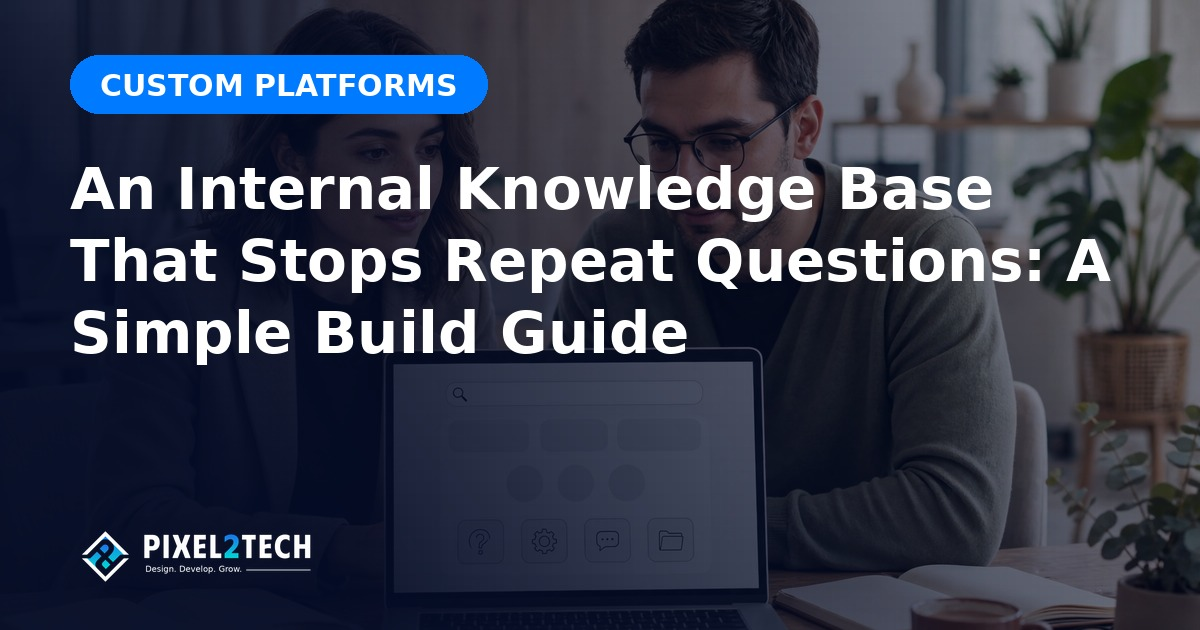
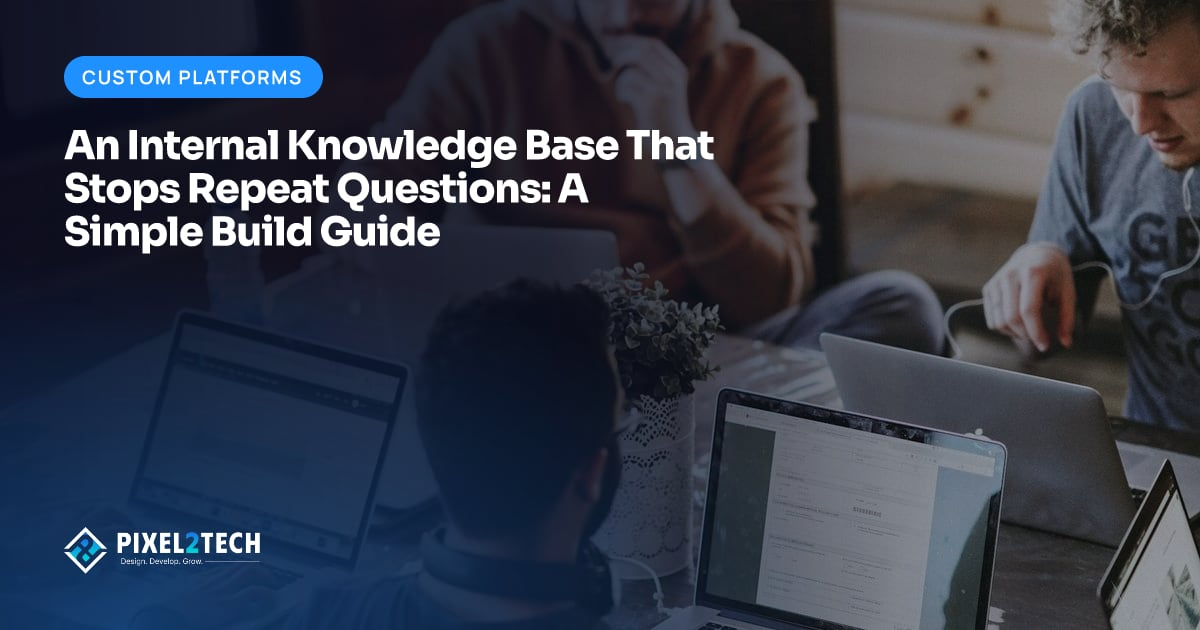
Polish responsive footer, fix active navigation and align new blog covers

diff --git a/src/components/site-chrome.tsx b/src/components/site-chrome.tsx
@@ -858,7 +858,7 @@ export function SiteNav() {
                   <NavDropdown
                     key={n.to}
                     item={n}
-                    active={isGroupActive(pathname, n)}
+                    active={activeGroup === n.label}
                     pathname={pathname}
                     openMenu={openMenu}
                     setOpenMenu={setOpenMenu}
@@ -963,7 +963,7 @@ export function SiteNav() {
               transform: open ? "translate3d(0,0,0)" : "translate3d(14px,0,0)",
             };
             if (n.children) {
-              const groupActive = isGroupActive(pathname, n);
+              const groupActive = activeGroup === n.label;
               const expanded = mobileGroup === n.label;
               const listId = `mobile-${n.label.toLowerCase()}-links`;
               return (
@@ -1162,6 +1162,48 @@ const FOOTER_NAV: { title: string; links: FooterLink[] }[] = [
 
 const FOOTER_SOCIALS = ["Instagram", "LinkedIn", "YouTube", "Facebook", "X / Twitter"];
 
+function FooterNavColumn({ title, links }: { title: string; links: FooterLink[] }) {
+  const [expanded, setExpanded] = useState(false);
+  const listId = useId();
+  const linkClass =
+    "inline-flex min-h-11 items-center py-2 text-sm leading-relaxed text-muted-foreground transition-colors hover:text-primary focus-visible:text-primary focus-visible:underline sm:min-h-8 sm:py-1";
+  return (
+    <div className="min-w-0 border-b border-border sm:border-0">
+      <h2 className="text-sm font-semibold text-foreground">
+        <button
+          type="button"
+          aria-expanded={expanded}
+          aria-controls={listId}
+          onClick={() => setExpanded(!expanded)}
+          className="flex min-h-14 w-full items-center justify-between gap-4 text-left sm:hidden"
+        >
+          {title}
+          <ChevronDown
+            className={`h-4 w-4 text-muted-foreground transition-transform motion-reduce:transition-none ${expanded ? "rotate-180" : ""}`}
+            aria-hidden="true"
+          />
+        </button>
+        <span className="hidden sm:block">{title}</span>
+      </h2>
+      <ul id={listId} className={`${expanded ? "block" : "hidden"} pb-4 sm:mt-3 sm:block sm:pb-0`}>
+        {links.map((link) => (
+          <li key={"slug" in link ? link.slug : link.to}>
+            {"slug" in link ? (
+              <Link to="/services/$slug" params={{ slug: link.slug }} className={linkClass}>
+                {link.label}
+              </Link>
+            ) : (
+              <Link to={link.to} className={linkClass}>
+                {link.label}
+              </Link>
+            )}
+          </li>
+        ))}
+      </ul>
+    </div>
+  );
+}
+
 export function SiteFooter() {
   const year = new Date().getFullYear();
   const linkCls =
@@ -1171,27 +1213,26 @@ export function SiteFooter() {
       <div className="mx-auto max-w-7xl px-5 pt-10 md:px-10 md:pt-12">
         <section
           aria-labelledby="footer-cta-title"
-          className="relative isolate overflow-hidden rounded-3xl border border-white/10 bg-[linear-gradient(115deg,#101c2c_0%,#101318_55%,#101010_100%)] p-6 sm:p-8 lg:p-10"
+          className="relative isolate overflow-hidden rounded-3xl border border-white/10 bg-card p-6 sm:p-8 lg:p-10"
         >
           <div
             aria-hidden="true"
-            className="pointer-events-none absolute -left-16 -top-24 -z-10 h-64 w-64 rounded-full bg-primary/10 blur-3xl"
+            className="pointer-events-none absolute inset-0 -z-10 bg-gradient-to-br from-primary/10 via-transparent to-transparent"
           />
           <div className="grid items-center gap-8 lg:grid-cols-[1.2fr_1fr] lg:gap-16">
             <div className="min-w-0">
-              <p className="flex items-center gap-2 text-xs font-medium text-white/60">
+              <p className="flex items-center gap-2 text-xs font-medium text-muted-foreground">
                 <span aria-hidden="true" className="h-2 w-2 rounded-full bg-emerald-400" />
                 Replies within one business day
               </p>
               <h2
                 id="footer-cta-title"
-                className="mt-4 max-w-lg text-3xl font-semibold leading-tight tracking-tight text-white sm:text-4xl"
+                className="mt-4 max-w-lg text-3xl font-semibold leading-tight tracking-tight text-foreground text-balance sm:text-4xl"
               >
                 Have a project in mind?
-                <br />
-                <span className="text-primary">Let&apos;s make it happen.</span>
+                <span className="block text-primary">Let&apos;s make it happen.</span>
               </h2>
-              <p className="mt-4 max-w-md text-sm leading-relaxed text-white/60">
+              <p className="mt-4 max-w-md text-sm leading-relaxed text-muted-foreground">
                 Tell us what you&apos;re building. We&apos;ll help you plan the next step.
               </p>
               <div className="mt-6 flex flex-col gap-3 sm:flex-row sm:flex-wrap">
@@ -1209,7 +1250,7 @@ export function SiteFooter() {
               </div>
             </div>
             <div className="min-w-0 border-t border-white/10 pt-6 lg:border-l lg:border-t-0 lg:pl-10 lg:pt-0">
-              <p className="text-xs font-medium uppercase tracking-widest text-white/50">
+              <p className="text-xs font-medium uppercase tracking-widest text-muted-foreground">
                 Start a conversation
               </p>
               <a
@@ -1228,12 +1269,12 @@ export function SiteFooter() {
                 target="_blank"
                 rel="noopener noreferrer"
                 onClick={() => trackEvent("whatsapp_click", { location: "footer" })}
-                className="mt-2 inline-flex min-h-11 items-center gap-2 text-sm text-white/65 transition-colors hover:text-white"
+                className="mt-2 inline-flex min-h-11 items-center gap-2 text-sm text-muted-foreground transition-colors hover:text-white"
               >
                 WhatsApp &middot; {SITE.phoneDisplay}
                 <ArrowUpRight className="h-4 w-4" aria-hidden="true" />
               </a>
-              <p className="mt-4 text-xs leading-relaxed text-white/45">
+              <p className="mt-4 text-sm leading-relaxed text-muted-foreground">
                 {SITE.location}
                 <br />
                 Working with businesses worldwide.
@@ -1275,29 +1316,9 @@ export function SiteFooter() {
               )}
             </div>
           </div>
-          <nav
-            aria-label="Footer navigation"
-            className="grid grid-cols-2 gap-x-6 gap-y-8 sm:grid-cols-4 sm:gap-6"
-          >
-            {FOOTER_NAV.map((col) => (
-              <div key={col.title} className="min-w-0">
-                <h2 className="text-sm font-semibold text-foreground">{col.title}</h2>
-                <ul className="mt-3 text-sm">
-                  {col.links.map((link) => (
-                    <li key={"slug" in link ? link.slug : link.to}>
-                      {"slug" in link ? (
-                        <Link to="/services/$slug" params={{ slug: link.slug }} className={linkCls}>
-                          {link.label}
-                        </Link>
-                      ) : (
-                        <Link to={link.to} className={linkCls}>
-                          {link.label}
-                        </Link>
-                      )}
-                    </li>
-                  ))}
-                </ul>
-              </div>
+          <nav aria-label="Footer navigation" className="grid gap-0 sm:grid-cols-4 sm:gap-6">
+            {FOOTER_NAV.map((column) => (
+              <FooterNavColumn key={column.title} {...column} />
             ))}
           </nav>
         </div>

diff --git a/src/lib/blog-index.ts b/src/lib/blog-index.ts
@@ -41,8 +41,8 @@ const POSTS = [
     date: "November 13, 2026",
     time: "11:01 am",
     author: "Asad Farooq",
-    img: "/blog/covers/shared-inbox-routine-customer-messages.jpg",
-    imgAlt: "Shared inbox workflow for managing customer messages",
+    img: "/blog/covers/shared-inbox-routine-customer-messages.jpg?v=20261113-reference",
+    imgAlt: "Branded cover with a team working on laptops at a shared office desk",
   },
   {
     slug: "service-page-copy-that-sells",
@@ -53,8 +53,8 @@ const POSTS = [
     date: "November 12, 2026",
     time: "7:36 pm",
     author: "Asad Farooq",
-    img: "/blog/covers/service-page-copy-that-sells.jpg",
-    imgAlt: "A person reading a website on a laptop in a bright office",
+    img: "/blog/covers/service-page-copy-that-sells.jpg?v=20261113-reference",
+    imgAlt: "Branded cover with a notebook, pen, laptop and phone on a wooden desk",
   },
   {
     slug: "email-subject-lines-get-opened-service-businesses",
@@ -65,8 +65,8 @@ const POSTS = [
     date: "November 12, 2026",
     time: "5:11 pm",
     author: "Asad Farooq",
-    img: "/blog/covers/email-subject-lines-get-opened-service-businesses.jpg",
-    imgAlt: "A person holding a smartphone showing an email inbox at a desk",
+    img: "/blog/covers/email-subject-lines-get-opened-service-businesses.jpg?v=20261113-reference",
+    imgAlt: "Branded cover with a person pointing at a laptop screen",
   },
   {
     slug: "internal-knowledge-base-stop-repeat-questions",
@@ -77,8 +77,8 @@ const POSTS = [
     date: "November 12, 2026",
     time: "2:57 pm",
     author: "Asad Farooq",
-    img: "/blog/covers/internal-knowledge-base-stop-repeat-questions.jpg",
-    imgAlt: "Two colleagues looking at a shared screen in a bright office",
+    img: "/blog/covers/internal-knowledge-base-stop-repeat-questions.jpg?v=20261113-reference",
+    imgAlt: "Branded cover with colleagues working together on laptops",
   },
   {
     slug: "choose-wordpress-theme-not-slow-site",
@@ -89,8 +89,8 @@ const POSTS = [
     date: "November 12, 2026",
     time: "12:44 pm",
     author: "Asad Farooq",
-    img: "/blog/covers/choose-wordpress-theme-not-slow-site.jpg",
-    imgAlt: "A laptop showing a clean website on a bright modern desk",
+    img: "/blog/covers/choose-wordpress-theme-not-slow-site.jpg?v=20261113-reference",
+    imgAlt: "Branded cover with a laptop displaying code on a white desk",
   },
   {
     slug: "portfolio-pieces-win-clients-show-leave-out",
@@ -101,8 +101,8 @@ const POSTS = [
     date: "November 12, 2026",
     time: "10:52 am",
     author: "Asad Farooq",
-    img: "/blog/covers/portfolio-pieces-win-clients-show-leave-out.jpg",
-    imgAlt: "A designer reviewing printed portfolio pieces spread on a studio desk",
+    img: "/blog/covers/portfolio-pieces-win-clients-show-leave-out.jpg?v=20261113-reference",
+    imgAlt: "Branded cover with a hand writing in a notebook",
   },
   {
     slug: "selling-new-york-website",
@@ -113,8 +113,8 @@ const POSTS = [
     date: "November 11, 2026",
     time: "7:34 pm",
     author: "Asad Farooq",
-    img: "/blog/covers/selling-new-york-website.jpg",
-    imgAlt: "New York City skyline at dusk with skyscrapers",
+    img: "/blog/covers/selling-new-york-website.jpg?v=20261113-reference",
+    imgAlt: "Branded cover with a New York bridge and city skyline at dusk",
   },
   {
     slug: "testimonial-vs-case-study-video-first",
@@ -125,8 +125,8 @@ const POSTS = [
     date: "November 11, 2026",
     time: "5:09 pm",
     author: "Asad Farooq",
-    img: "/blog/covers/testimonial-vs-case-study-video-first.jpg",
-    imgAlt: "A client speaking to camera during a testimonial video shoot",
+    img: "/blog/covers/testimonial-vs-case-study-video-first.jpg?v=20261113-reference",
+    imgAlt: "Branded cover with a video editing timeline on a monitor",
   },
   {
     slug: "monthly-seo-audit-service-websites",
@@ -137,8 +137,8 @@ const POSTS = [
     date: "November 11, 2026",
     time: "2:58 pm",
     author: "Asad Farooq",
-    img: "/blog/covers/monthly-seo-audit-service-websites.jpg",
-    imgAlt: "A laptop showing website analytics and search rankings on a desk",
+    img: "/blog/covers/monthly-seo-audit-service-websites.jpg?v=20261113-reference",
+    imgAlt: "Branded cover with a laptop displaying analytics charts",
   },
   {
     slug: "ai-content-review-human-checklist",
@@ -149,8 +149,8 @@ const POSTS = [
     date: "November 11, 2026",
     time: "12:36 pm",
     author: "Asad Farooq",
-    img: "/blog/covers/ai-content-review-human-checklist.jpg",
-    imgAlt: "A person reviewing AI drafted content on a laptop with a checklist",
+    img: "/blog/covers/ai-content-review-human-checklist.jpg?v=20261113-reference",
+    imgAlt: "Branded cover with people reviewing paperwork beside laptops",
   },
   {
     slug: "automate-client-onboarding-same-day-start",
@@ -161,8 +161,8 @@ const POSTS = [
     date: "November 11, 2026",
     time: "10:47 am",
     author: "Asad Farooq",
-    img: "/blog/covers/automate-client-onboarding-same-day-start.jpg",
-    imgAlt: "A team welcoming a new client with a laptop and checklist in a bright office",
+    img: "/blog/covers/automate-client-onboarding-same-day-start.jpg?v=20261113-reference",
+    imgAlt: "Branded cover with a team planning work using sticky notes",
   },
   {
     slug: "re-engagement-emails-win-back-subscribers",

diff --git a/src/routes/careers.tsx b/src/routes/careers.tsx
@@ -56,7 +56,7 @@ export const Route = createFileRoute("/careers")({
   head: () =>
     businessHead(
       "/careers",
-      "Careers at Pixel2Tech",
+      "Careers and creative roles",
       "Explore careers at Pixel2Tech and send an application with your discipline, experience and portfolio. Applications go directly to our team.",
     ),
   component: CareersPage,
